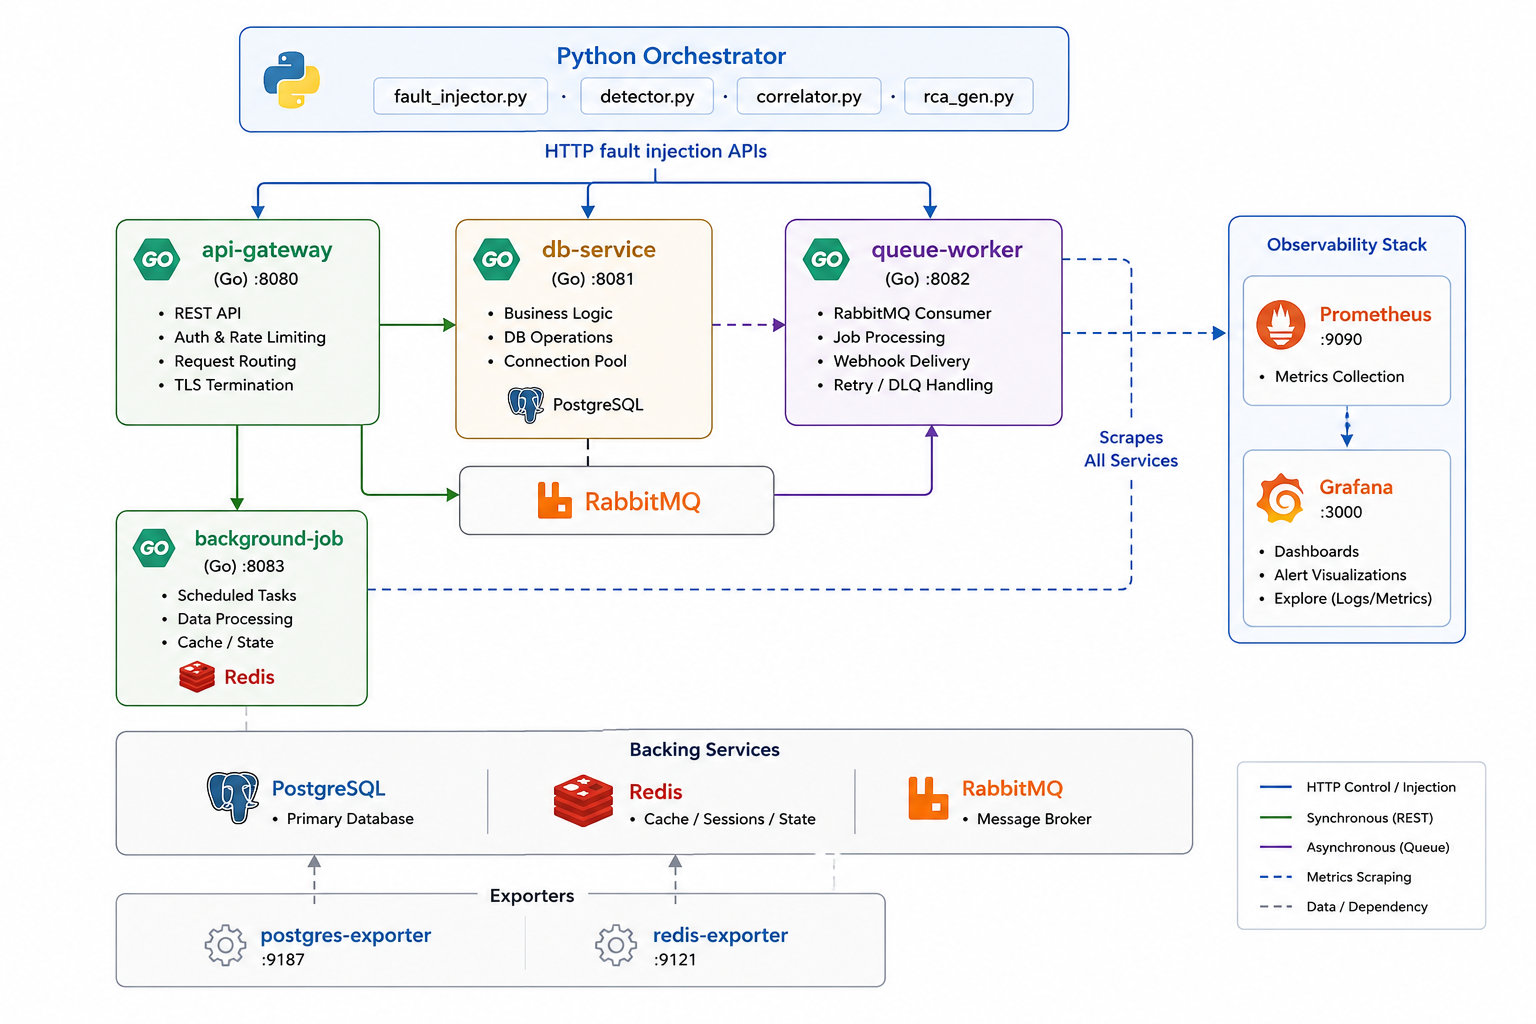
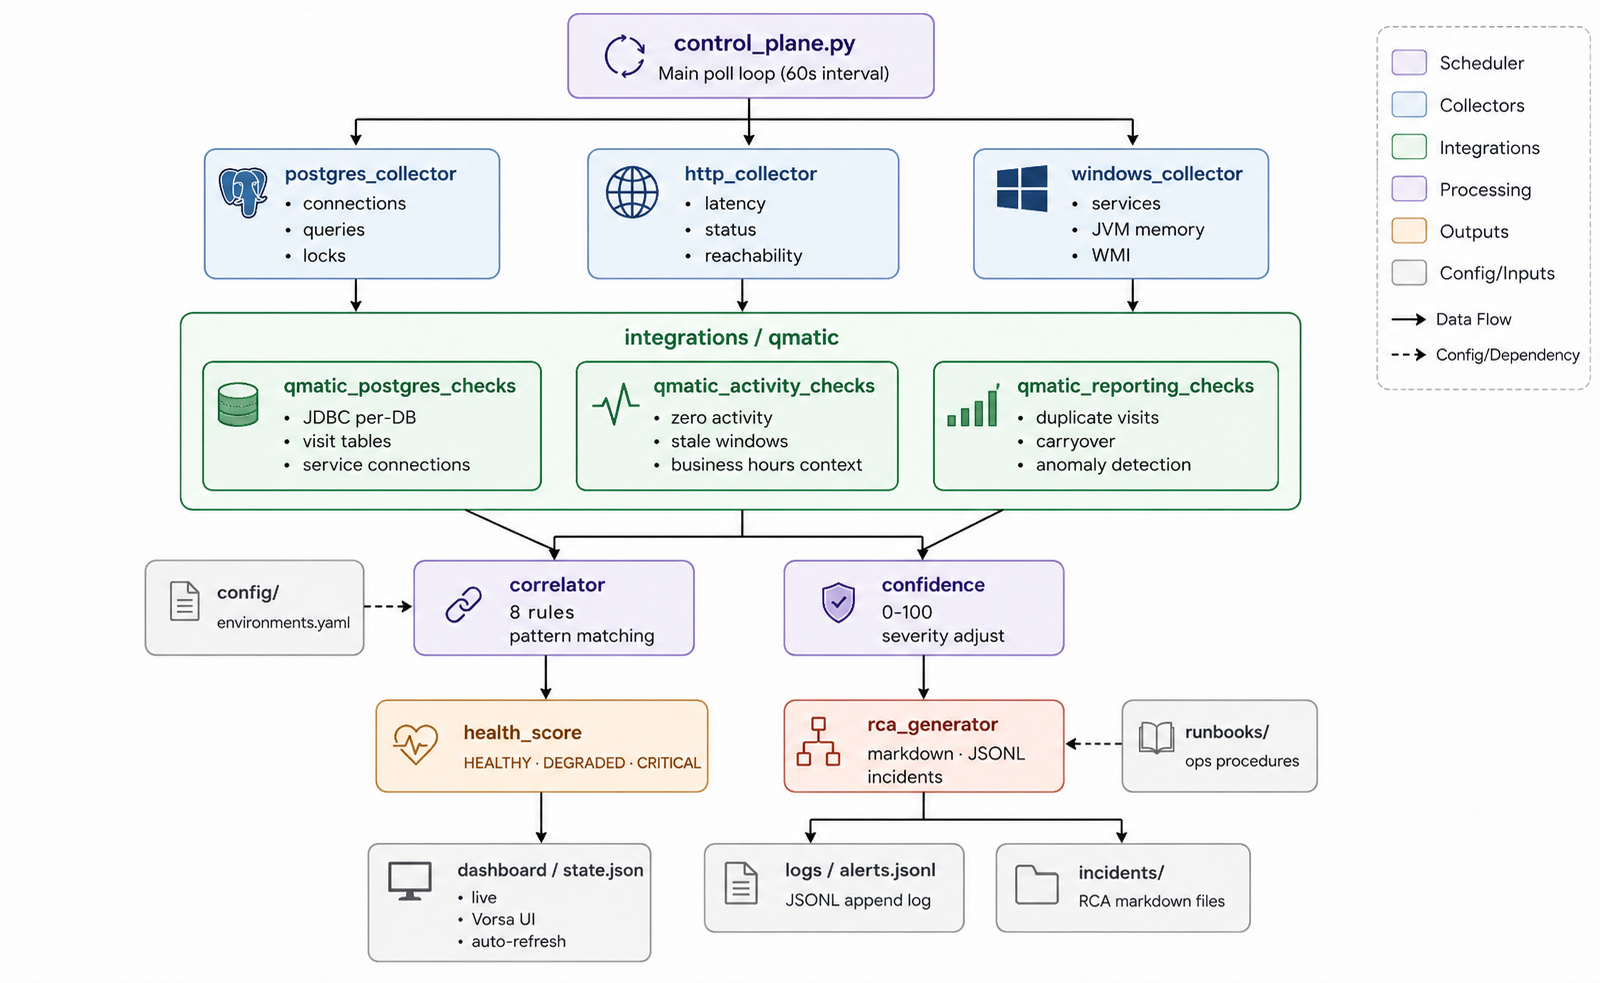
docs: Vorsa README + updated architecture diagram

Changed region(s): [[0.0625, 0.0, 1.0, 0.7019], [0.125, 0.7019, 0.9375, 1.0]]

diff --git a/README.md b/README.md
@@ -1,67 +1,66 @@
-# observability-control-plane
+# Vorsa — Observability Control Plane
+
+> **Your stack, under control.**
 
 Operational intelligence and reliability platform for hosted Qmatic environments.
+Detects degradation before customers report it. Correlates signals across PostgreSQL,
+HTTP, Windows services, and Qmatic application activity. Generates RCA-style incident
+summaries with confidence scoring and actionable remediation steps.
 
-Detects operational degradation before customers report it. Correlates signals across
-PostgreSQL health, HTTP availability, and Qmatic queue activity. Generates RCA-style
-incident summaries with actionable remediation steps.
+---
+
+![Architecture](docs/screenshots/architecture.png)
+
+---
+
+## What it does
+
+- **Detects** PostgreSQL connection pressure, long-running queries, blocked locks
+- **Monitors** HTTP endpoint availability and response latency
+- **Tracks** Windows service state and JVM memory per Qmatic process
+- **Measures** JDBC connections per database (qp_central, statdb, qp_agent, etc.)
+- **Correlates** multi-signal failure patterns into named incidents
+- **Scores** confidence 0–100 per incident based on signal strength and recurrence
+- **Generates** RCA markdown files with evidence, likely cause, and recommended actions
+- **Displays** a live operational dashboard (Vorsa UI)
 
 ---
 
 ## Architecture
 
 ```
-observability-control-plane/
-│
-├── control_plane.py                  ← main poll loop
-│
-├── config/
-│   ├── environments.yaml             ← environment definitions (YAML)
-│   └── loader.py                     ← config loader + secret injection
+control_plane.py                    ← main poll loop (60s)
 │
 ├── collectors/
-│   ├── postgres_collector.py         ← pg_stat_* system view collector
-│   └── http_collector.py             ← HTTP latency + reachability checks
+│   ├── postgres_collector.py       ← pg_stat_* system views
+│   ├── http_collector.py           ← latency · status · reachability
+│   └── windows_collector.py        ← WMI · services · JVM memory
 │
-├── detectors/                        ← (generic detector base, future use)
+├── integrations/qmatic/
+│   ├── qmatic_postgres_checks.py   ← JDBC per-DB · service connections
+│   ├── qmatic_activity_checks.py   ← zero activity · stale windows
+│   └── qmatic_reporting_checks.py  ← duplicate visits · carryover
 │
 ├── correlators/
-│   └── correlator.py                 ← multi-signal correlation engine
+│   ├── correlator.py               ← 8 correlation rules
+│   ├── confidence.py               ← 0–100 scoring · severity adjustment
+│   └── health_score.py             ← HEALTHY · DEGRADED · CRITICAL
 │
 ├── rca/
-│   └── rca_generator.py              ← structured incident + markdown RCA output
+│   └── rca_generator.py            ← markdown + JSONL incident output
 │
-├── integrations/
-│   └── qmatic/
-│       ├── qmatic_postgres_checks.py ← Qmatic application table queries
-│       ├── qmatic_activity_checks.py ← zero activity, stale windows, drops
-│       └── qmatic_reporting_checks.py← duplicate visits, carryover, anomalies
+├── config/
+│   ├── environments.yaml           ← environment definitions
+│   └── loader.py                   ← config loader + secret injection
 │
-├── runbooks/
-│   ├── db-connection-exhaustion.md
-│   └── zero-activity-business-hours.md
+├── dashboard/
+│   ├── index.html                  ← Vorsa live dashboard
+│   └── state.json                  ← written each poll cycle
 │
-├── incidents/
-│   └── templates/
-│       └── sample-rca-critical.md    ← example generated RCA
-│
-├── dashboards/
-│   └── state.json                    ← written by control_plane.py each cycle
-│
-├── requirements.txt
-└── README.md
+├── runbooks/                       ← operational procedures
+├── incidents/                      ← generated RCA files
+└── logs/alerts.jsonl               ← JSONL alert log
 ```
-
----
-
-## Design principles
-
-- **Domain-aware**: Qmatic is a first-class integration, not a generic target
-- **Read-only first**: all database access uses SELECT only, read-only user
-- **Modular**: collectors, detectors, correlators are independently testable
-- **Decoupled**: the generic platform architecture is not tightly coupled to Qmatic
-- **Operational**: outputs are engineering-readable, not customer-facing
-- **Minimal dependencies**: psycopg2, httpx, pyyaml — that's it
 
 ---
 
@@ -70,109 +69,190 @@ observability-control-plane/
 ```bash
 pip install -r requirements.txt
 
-# Set DB passwords as environment variables
-export OBS_DB_PASSWORD_CXM_CLIENT_ALPHA=yourpassword
-export OBS_DB_PASSWORD_CXM_CLIENT_BETA=yourpassword
+# Set credentials as environment variables
+export OBS_DB_PASSWORD_CXM_TEST_LOCAL=yourpassword
+export OBS_WMI_USER_CXM_TEST_LOCAL=Administrator
+export OBS_WMI_PASSWORD_CXM_TEST_LOCAL=yourpassword
 
-# Single poll cycle (useful for testing)
+# Single poll cycle (test)
 python control_plane.py --once
 
-# Continuous polling (60s interval)
+# Continuous polling
 python control_plane.py
+```
+
+Serve the dashboard:
+```bash
+python -m http.server 8888
+# Open: http://localhost:8888/dashboard/index.html
 ```
 
 ---
 
 ## Configuration
 
-Environments are defined in `config/environments.yaml`.
+All environments are defined in `config/environments.yaml`.
 
-Database passwords are **never** stored in YAML. Set them as environment variables:
+```yaml
+environments:
+  - name: cxm-test-local
+    type: qmatic
+    enabled: true
+    timezone: America/Toronto
+
+    business_hours:
+      monday:    ["08:00", "18:00"]
+      tuesday:   ["08:00", "18:00"]
+      wednesday: ["08:00", "18:00"]
+      thursday:  ["08:00", "18:00"]
+      friday:    ["08:00", "18:00"]
+      saturday:  []
+      sunday:    []
+
+    windows:
+      host: 192.168.68.114
+      username: Administrator
+
+    postgres:
+      host: 192.168.68.114
+      port: 5432
+      database: qp_app
+      username: vorsa_readonly
+      thresholds:
+        connection_pct_warning:  75
+        connection_pct_critical: 90
+        long_query_seconds:      30
+      monitored_databases:
+        - qp_central
+        - qp_app
+        - qp_agent
+        - qp_calendar
+        - statdb
+
+    http_checks:
+      - name: qmatic-login
+        url: http://192.168.68.114:8080/login.jsp
+        expected_status: 200
+        warning_latency_ms: 1500
+        critical_latency_ms: 3000
+
+    reporting_checks:
+      enabled: false
+```
+
+**Secrets** are never stored in YAML. Set environment variables using the naming convention:
 ```
 OBS_DB_PASSWORD_{ENV_NAME_UPPER_SNAKE}
+OBS_WMI_USER_{ENV_NAME_UPPER_SNAKE}
+OBS_WMI_PASSWORD_{ENV_NAME_UPPER_SNAKE}
 ```
 
-Example: environment named `cxm-client-alpha` → `OBS_DB_PASSWORD_CXM_CLIENT_ALPHA`
+To add a new environment — add a block to `environments.yaml`, set the env vars, restart.
 
 ---
 
 ## Correlation rules
 
-The correlator detects compound failure patterns:
-
 | Rule | Signals | Severity |
 |------|---------|----------|
-| `db_saturation_api_cascade` | PG connections > 75% + HTTP latency elevated | warning/critical |
+| `db_unavailable` | PostgreSQL unreachable | critical |
+| `db_saturation_api_cascade` | PG connections >75% + HTTP latency elevated | warning/critical |
 | `zero_activity_business_hours` | Zero delivered visits during business hours | critical |
 | `reporting_anomaly_with_db_pressure` | Duplicate visit IDs + long-running queries | warning |
-| `db_unavailable` | PostgreSQL unreachable | critical |
+| `service_stopped_db_drop` | Windows service stopped + JDBC connections dropped | critical |
+| `memory_pressure_api_cascade` | JVM memory >60% of server RAM + API latency spike | warning |
+| `silent_service_failure` | JDBC connections to DB dropped to 0, service running | warning |
+| `app_layer_issue` | HTTP slow but DB healthy and services running | warning |
 
-Add new rules by defining a function decorated with `@correlation_rule` in `correlators/correlator.py`.
+### Confidence scoring
 
----
+Each incident receives a confidence score 0–100:
 
-## Output
+| Factor | Weight |
+|--------|--------|
+| Signal severity (critical/warning/ok) | 0–30 |
+| Number of correlated signals | 0–25 |
+| Signal recency (same poll cycle) | 0–20 |
+| Historical recurrence (seen in last 24h) | 0–15 |
+| Business hours context | 0–10 |
 
-Each poll cycle writes:
-- `dashboard/state.json` — current state for all environments
-- `incidents/<timestamp>_<env>_<type>.md` — RCA markdown per incident
-- `logs/alerts.jsonl` — JSONL log of all alerts
+- **≥ 80% + critical pattern** → CRITICAL incident
+- **50–79% + critical pattern** → downgraded to WARNING
+- **< 50%** → suppressed (timeline only, no RCA file)
 
 ---
 
 ## Database permissions
 
-The read-only database user needs:
-
 ```sql
--- System views (generic postgres collector)
-GRANT pg_read_all_stats TO readonly_user;
-GRANT pg_monitor TO readonly_user;
+-- PostgreSQL system health (postgres_collector)
+GRANT pg_monitor TO vorsa_readonly;
 
--- Qmatic application tables (qmatic integration)
-GRANT SELECT ON visit TO readonly_user;
-GRANT SELECT ON scheduled_job TO readonly_user;
-GRANT SELECT ON branch TO readonly_user;
-GRANT SELECT ON service_point TO readonly_user;
+-- Qmatic application tables (qmatic_postgres_checks)
+GRANT SELECT ON visit TO vorsa_readonly;
+GRANT SELECT ON scheduled_job TO vorsa_readonly;
+GRANT SELECT ON branch TO vorsa_readonly;
+GRANT SELECT ON service_point TO vorsa_readonly;
 ```
 
 ---
 
-## Adding a new environment
+## Health score
 
-1. Add an entry to `config/environments.yaml`
-2. Set the password environment variable
-3. Restart `control_plane.py`
+The health score (0–100) is calculated from live signals each poll cycle:
 
-No code changes required.
+| Condition | Penalty |
+|-----------|---------|
+| Active incident — critical (at 100% confidence) | −40 |
+| Active incident — warning | −20 |
+| Suppressed warning | −5 |
+| PG connections > 90% | −20 |
+| PG connections > 75% | −10 |
+| HTTP unreachable | −25 |
+| HTTP latency critical | −15 |
+| Windows service stopped | −15 each |
+| Server memory > 90% | −15 |
+| Server memory > 80% | −8 |
+| Long-running queries | −5 |
+| Blocked queries | −10 |
 
----
-
-## Future phases
-
-**Phase 2 — Alerting integration**
-- PagerDuty / OpsGenie webhook on critical incidents
-- Slack notification on warning → critical transitions
-- Email digest for daily operational summary
-
-**Phase 3 — Historical trending**
-- SQLite or PostgreSQL backend for control plane state
-- 7-day visit volume trending per environment
-- Connection pool utilisation heatmap
-
-**Phase 4 — AI-assisted RCA**
-- Pass correlated incident + evidence to Claude API
-- Generate natural-language RCA narrative with confidence level
-- Suggest likely root cause from historical incident patterns
-
-**Phase 5 — Self-service dashboard**
-- Serve `dashboard/state.json` via a lightweight FastAPI endpoint
-- Browser-based operational dashboard (real data, not mock)
-- Per-environment drill-down with historical incident list
+Labels: **HEALTHY** (90–100) · **DEGRADED** (60–89) · **CRITICAL** (0–59)
 
 ---
 
-## Related
+## Runbooks
 
-- `connector-support-toolkit` — validates PostgreSQL, Redis, RabbitMQ configuration
-  before deployment (runs before this platform takes over for runtime monitoring)
+- [`runbooks/db-connection-exhaustion.md`](runbooks/db-connection-exhaustion.md)
+- [`runbooks/zero-activity-business-hours.md`](runbooks/zero-activity-business-hours.md)
+
+---
+
+## Roadmap
+
+**Next:**
+- `statdb` schema mapping → activity and reporting checks
+- Service memory thresholds alert (JVM heap > configurable %)
+- API health endpoint discovery for Qmatic Orchestra
+
+**Phase 3:**
+- Slack / PagerDuty alerting integration
+- Historical state trending (7-day connection pool, memory, latency)
+- FastAPI backend to replace Python HTTP server
+
+**Phase 4:**
+- AI-assisted RCA narrative generation via Claude API
+- Incident fingerprint matching against historical patterns
+- Multi-environment aggregated health view
+
+---
+
+## Requirements
+
+```
+psycopg2-binary>=2.9
+httpx>=0.27
+pyyaml>=6.0
+tzdata
+```
+
+Python 3.11+ required. Windows PowerShell required for WMI collection.